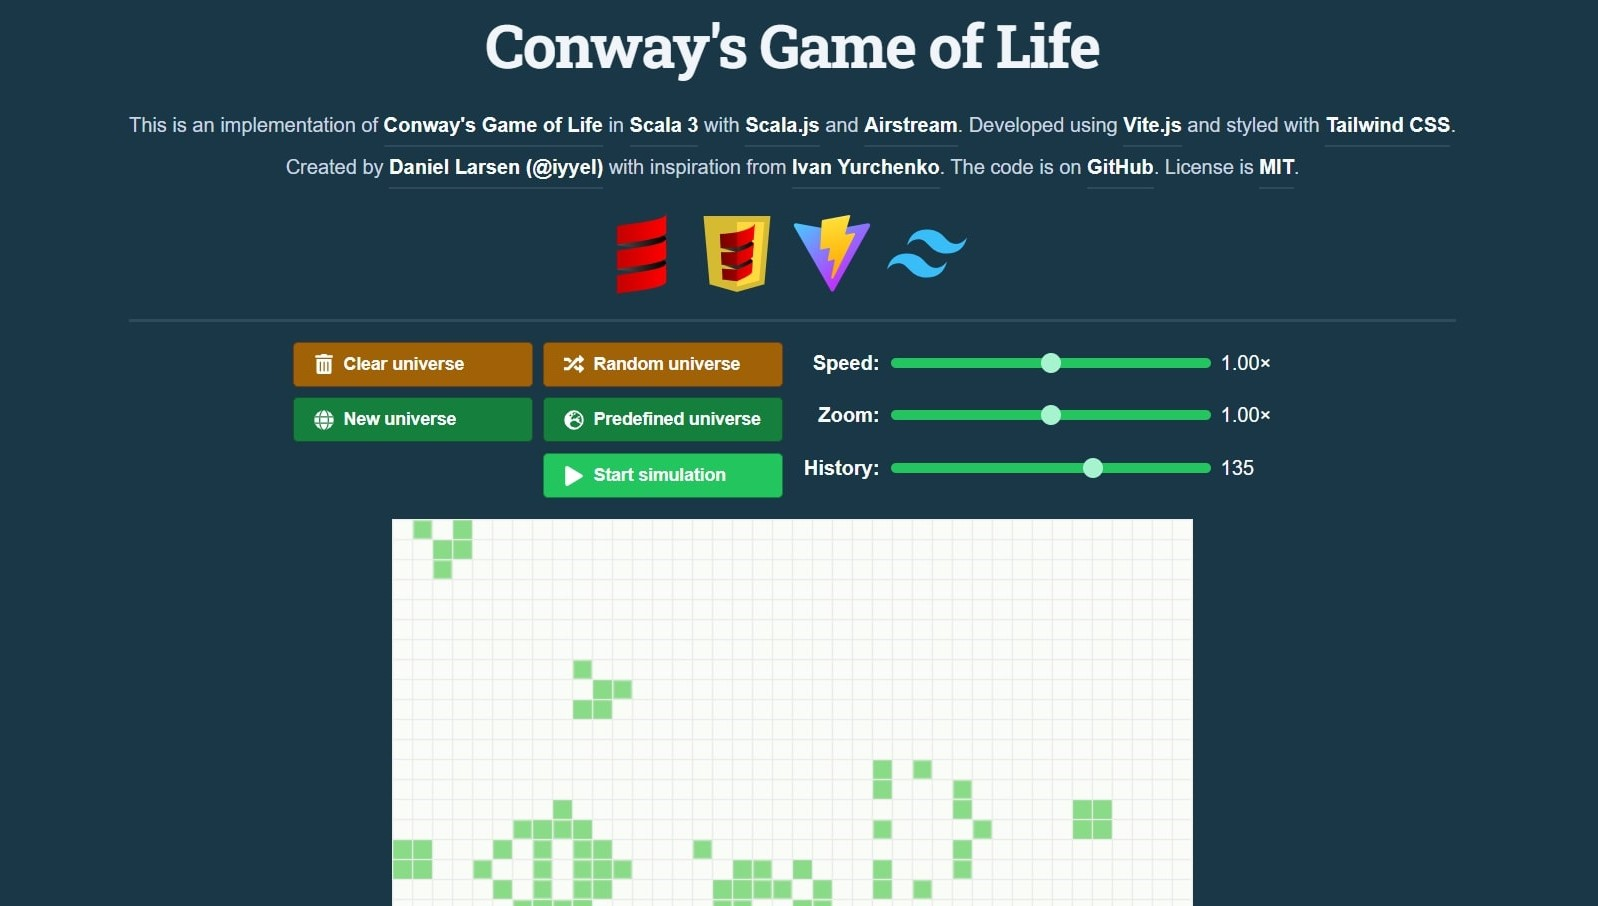
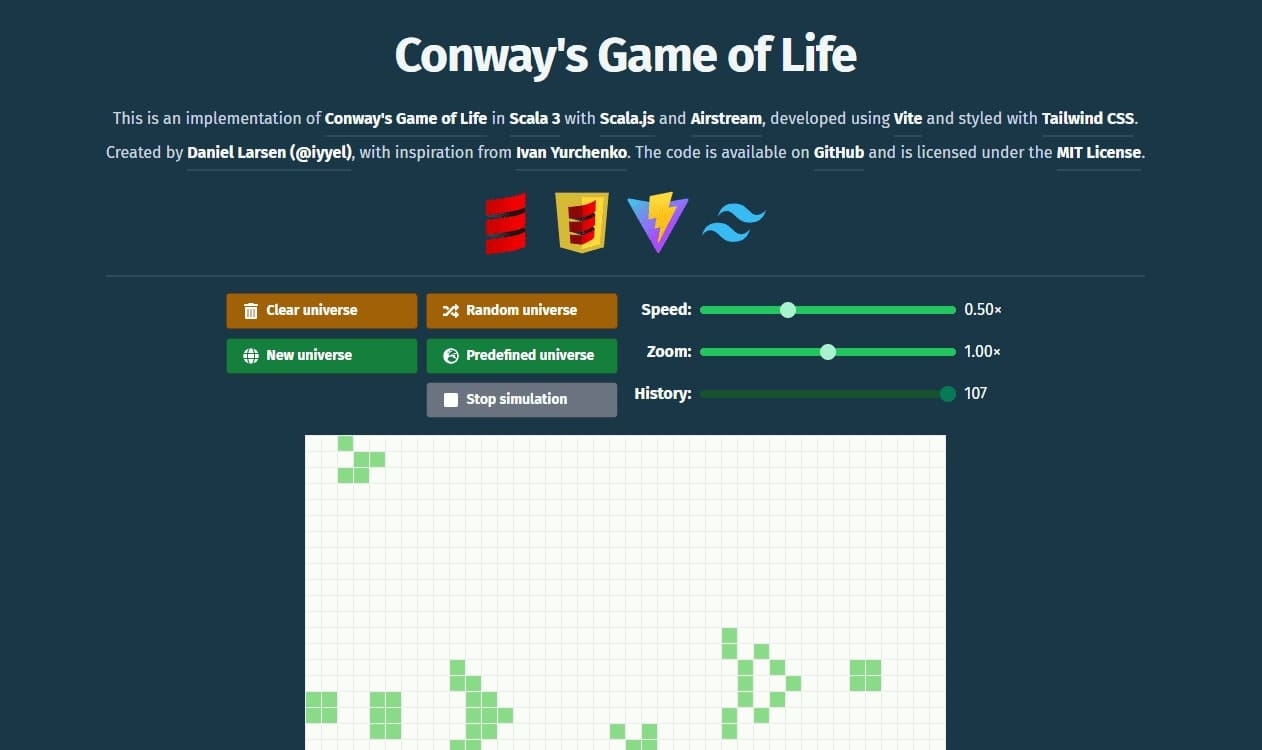
Updated styling and dependencies

diff --git a/index.html b/index.html
@@ -8,7 +8,9 @@
   <link rel="manifest" href="/manifest.webmanifest">
   <link rel="preconnect" href="https://fonts.googleapis.com">
   <link rel="preconnect" href="https://fonts.gstatic.com" crossorigin>
-  <link href="https://fonts.googleapis.com/css2?family=Roboto+Slab:wght@100..900&display=swap" rel="stylesheet">
+  <link
+    href="https://fonts.googleapis.com/css2?family=Fira+Sans:ital,wght@0,400;0,500;0,600;0,700;0,800;0,900;1,400;1,500;1,600;1,700;1,800;1,900&display=swap"
+    rel="stylesheet">
   <meta name="viewport" content="width=device-width, initial-scale=1.0" />
   <title>Conway's Game of Life | @iyyel</title>
 </head>
@@ -30,20 +32,21 @@
         with
         <a class="text-link" href="https://www.scala-js.org">Scala.js</a>
         and
-        <a class="text-link" href="https://github.com/raquo/Airstream/">Airstream</a>.
-        Developed using
-        <a class="text-link" href="https://vitejs.dev">Vite.js</a>
+        <a class="text-link" href="https://github.com/raquo/Airstream/">Airstream</a>,
+        developed using
+        <a class="text-link" href="https://vite.dev/">Vite</a>
         and styled with
-        <a class="text-link" href="https://tailwindcss.com">Tailwind CSS</a>.
+        <a class="text-link" href="https://tailwindcss.com/">Tailwind CSS</a>.
       </p>
 
       <p>
         Created by
-        <a class="text-link" href="https://iyyel.io/">Daniel Larsen (@iyyel)</a>
+        <a class="text-link" href="https://iyyel.io/">Daniel Larsen (@iyyel)</a>,
         with inspiration from
         <a class="text-link" href="https://ivanyu.me/">Ivan Yurchenko</a>.
-        The code is on <a class="text-link" href="https://github.com/iyyel/game-of-life-scala">GitHub</a>.
-        License is <a class="text-link" href="https://github.com/iyyel/game-of-life-scala/blob/main/LICENSE.md">MIT</a>.
+        The code is available on <a class="text-link" href="https://github.com/iyyel/conways-game-of-life">GitHub</a>
+        and is licensed under the <a class="text-link"
+          href="https://github.com/iyyel/conways-game-of-life/blob/main/LICENSE.md">MIT License</a>.
       </p>
 
       <div class="flex flex-wrap items-center justify-center mt-5 mb-5">
@@ -55,8 +58,8 @@
           <img src="/assets/img/scala-js_logo.svg" class="header-icon" alt="Scala.js icon">
         </a>
 
-        <a href="https://vitejs.dev" class="flex-grow-0 ml-3 mt-3 md:mt-0">
-          <img src="/assets/img/vitejs_logo.svg" class="header-icon" alt="Vite.js icon">
+        <a href="https://vite.dev/" class="flex-grow-0 ml-3 mt-3 md:mt-0">
+          <img src="/assets/img/vite_logo.svg" class="header-icon" alt="Vite icon">
         </a>
 
         <a href="https://tailwindcss.com" class="flex-grow-0 ml-3 mt-3 md:mt-0">
@@ -164,21 +167,21 @@
         <h1 class="subheader-text">Information</h1>
       </div>
 
-      <p>You can find more information about the game in
+      <p>You can find more information about the game on
         <a class="text-link" href="https://en.wikipedia.org/wiki/Conway%27s_Game_of_Life">Wikipedia</a>.
       </p>
-      <p>The world of this implementation is toroidal - top and bottom, left and right edges are connected.</p>
-      <p>During the simulation, the history of the universe evolution is recorded,
-        and you can scroll to any state when the simulation is stopped.
-        Also when the simulation is stopped, you can change the state by adding or removing living cells.</p>
-      <p>The cell plane can be cleared or randomly seeded and you can create a new universe
-        (with different size) by the buttons at the top (huge universes can slow down the simulation).
-        You can also choose some interesting predefined universes.</p>
-      <p>Any manual changes to the state of the universe (making a cell dead or alive,
-        clearing, randomly seeding, creating a new universe) causes its history to be cleared.</p>
-      <p>You can control the speed of the simulation and zoom the cell plane
-        by moving the sliders at the top.</p>
-      <p>Unfortunately, the history is unbounded and may consume lots of memory with time.</p>
+      <p>The world in this implementation is toroidal, meaning the top and bottom, as well as the left and right edges,
+        are connected.</p>
+      <p>During the simulation, the history of the universe's evolution is recorded, and you can scroll to any previous
+        state when the simulation is paused. Additionally, while the simulation is paused, you can modify the state by
+        adding or removing living cells.</p>
+      <p>The cell plane can be cleared or randomly seeded, and you can create a new universe (with a different size)
+        using the buttons at the top (note that large universes may slow down the simulation). You can also select from
+        several interesting predefined universes.</p>
+      <p>Any manual changes to the state of the universe (e.g., making a cell dead or alive, clearing the plane,
+        randomly seeding, or creating a new universe) will cause its history to be cleared.</p>
+      <p>You can control the simulation speed and zoom the cell plane by adjusting the sliders at the top.</p>
+      <p>However, the history is unbounded and may consume a large amount of memory over time.</p>
 
       <div class="flex flex-wrap gap-6 mt-4">
         <a href="https://iyyel.io">
@@ -189,11 +192,7 @@
           <img src="/assets/img/github_icon.svg" class="small-icon white-icon" alt="GitHub icon">
         </a>
 
-        <a href="https://www.linkedin.com/in/iyyel">
-          <img src="/assets/img/linkedin_icon.svg" class="small-icon white-icon" alt="LinkedIn icon">
-        </a>
-
-        <a href="mailto:hello@iyyel.io">
+        <a href="mailto:me@iyyel.io">
           <img src="/assets/img/mail_icon.svg" class="small-icon white-icon" alt="E-mail icon">
         </a>
       </div>
@@ -221,7 +220,7 @@
           <div class="mb-4">
             <label class="flex items-center">
               <input id="cb-new-universe-random-seed" class="checkbox-input" type="checkbox" checked>
-              <span class="ml-2 font-semibold text-gray-50">Random</span>
+              <span class="ml-2 font-bold text-gray-50">Random</span>
             </label>
           </div>
         </div>

diff --git a/style.css b/style.css
@@ -16,55 +16,55 @@
 }
 
 .header-text {
-  @apply mb-4 text-4xl font-bold leading-none tracking-tight text-slate-100 md:text-5xl text-center font-heading
+  @apply mb-4 text-4xl font-bold leading-none tracking-tight text-slate-100 md:text-5xl text-center
 }
 
 .subheader-text {
-  @apply mb-4 text-3xl font-bold leading-none tracking-tight text-slate-100 md:text-4xl text-center font-heading
+  @apply mb-4 text-3xl font-bold leading-none tracking-tight text-slate-100 md:text-4xl text-center
 }
 
 .smallheader-text {
-  @apply text-2xl font-bold leading-none tracking-tight text-slate-100 md:text-2xl text-center font-heading
+  @apply text-2xl font-bold leading-none tracking-tight text-slate-100 md:text-2xl text-center
 }
 
 .text-link {
-  @apply inline-block border-b-2 font-semibold text-gray-50 hover:border-gray-50 border-gray-50/10 transition-colors duration-150
+  @apply inline-block border-b-2 font-bold text-gray-50 hover:border-gray-50 border-gray-50/10 transition-colors duration-150
 }
 
 .start-btn {
-  @apply bg-green-500 hover:bg-green-700 text-gray-50 font-semibold py-2 px-4 border border-green-700 rounded flex items-center h-9 text-sm w-48
+  @apply bg-green-500 hover:bg-green-700 text-gray-50 font-bold py-2 px-4 border border-green-700 rounded flex items-center h-9 text-sm w-48
 }
 
 .stop-btn {
-  @apply bg-gray-500 hover:bg-gray-700 text-gray-50 font-semibold py-2 px-4 border border-gray-700 rounded flex items-center h-9 text-sm w-48
+  @apply bg-gray-500 hover:bg-gray-700 text-gray-50 font-bold py-2 px-4 border border-gray-700 rounded flex items-center h-9 text-sm w-48
 }
 
 .new-universe-btn {
-  @apply bg-green-700 hover:bg-green-900 text-gray-50 font-semibold py-2 px-4 border border-green-900 rounded flex items-center h-9 text-sm w-48
+  @apply bg-green-700 hover:bg-green-900 text-gray-50 font-bold py-2 px-4 border border-green-900 rounded flex items-center h-9 text-sm w-48
 }
 
 .predefined-universe-btn {
-  @apply bg-green-700 hover:bg-green-900 text-gray-50 font-semibold py-2 px-4 border border-green-900 rounded flex items-center h-9 text-sm w-48
+  @apply bg-green-700 hover:bg-green-900 text-gray-50 font-bold py-2 px-4 border border-green-900 rounded flex items-center h-9 text-sm w-48
 }
 
 .clear-btn {
-  @apply bg-yellow-700 hover:bg-yellow-900 text-gray-50 font-semibold py-2 px-4 border border-yellow-900 rounded flex items-center h-9 text-sm w-48
+  @apply bg-yellow-700 hover:bg-yellow-900 text-gray-50 font-bold py-2 px-4 border border-yellow-900 rounded flex items-center h-9 text-sm w-48
 }
 
 .random-universe-btn {
-  @apply bg-yellow-700 hover:bg-yellow-900 text-gray-50 font-semibold py-2 px-4 border border-yellow-900 rounded flex items-center h-9 text-sm w-48
+  @apply bg-yellow-700 hover:bg-yellow-900 text-gray-50 font-bold py-2 px-4 border border-yellow-900 rounded flex items-center h-9 text-sm w-48
 }
 
 .create-new-universe-btn {
-  @apply bg-green-500 hover:bg-green-700 text-gray-50 font-semibold py-2 px-4 border border-green-700 rounded flex items-center h-9 text-sm w-20
+  @apply bg-green-500 hover:bg-green-700 text-gray-50 font-bold py-2 px-4 border border-green-700 rounded flex items-center h-9 text-sm w-20
 }
 
 .cancel-btn {
-  @apply bg-gray-500 hover:bg-gray-700 text-gray-50 font-semibold py-2 px-4 border border-gray-700 rounded flex items-center h-9 text-sm w-20
+  @apply bg-gray-500 hover:bg-gray-700 text-gray-50 font-bold py-2 px-4 border border-gray-700 rounded flex items-center h-9 text-sm w-20
 }
 
 .slider-label {
-  @apply mb-2 inline-block font-semibold text-gray-50
+  @apply mb-2 inline-block font-bold text-gray-50
 }
 
 .slider-input {
@@ -175,7 +175,7 @@
 }
 
 .card-header {
-  @apply text-xl font-semibold mb-2 text-gray-50 font-heading
+  @apply text-xl font-bold mb-2 text-gray-50
 }
 
 .card-content {

diff --git a/tailwind.config.js b/tailwind.config.js
@@ -5,8 +5,7 @@ export default {
   ],
   theme: {
     fontFamily: {
-      'sans': ['Noto Sans', 'sans-serif'],
-      'heading': ['Roboto Slab', 'sans-serif']
+      'sans': ['Fira Sans'],
     },
   },
   plugins: [],

diff --git a/README.md b/README.md
@@ -9,7 +9,7 @@
 <br />
 <div align="center">
   <a href="https://github.com/iyyel/conways-game-of-life">
-    <img src="images/game-of-life-logo.png" width="auto" height="300" alt="Game of Life Logo">
+    <img src="images/conways.jpg" width="auto" height="300" alt="Game of Life Logo">
   </a>
 
   <p align="center">
@@ -22,6 +22,7 @@
 
 
 ## Table of Contents
+- [Table of Contents](#table-of-contents)
 - [Introduction](#introduction)
 - [Built With](#built-with)
 - [Getting Started](#getting-started)
@@ -33,15 +34,14 @@
 
 
 ## Introduction
-[![Game of Life][product-screenshot]](https://github.com/iyyel/conways-game-of-life)
 
-The [**Game of Life**](https://en.wikipedia.org/wiki/Conway%27s_Game_of_Life), created by [John Conway](https://en.wikipedia.org/wiki/John_Horton_Conway), is a well-known cellular automaton. It features a grid of cells where each cell can either be alive or dead. The evolution of each cell's state over time is determined by straightforward rules:
+The [**Game of Life**](https://en.wikipedia.org/wiki/Conway%27s_Game_of_Life), created by [**John Conway**](https://en.wikipedia.org/wiki/John_Horton_Conway), is a well-known cellular automaton. It features a grid of cells where each cell can either be alive or dead. The evolution of each cell's state over time is determined by straightforward rules:
 
 A live cell with two or three live neighbors continues to live. A dead cell with exactly three live neighbors becomes alive. All other live cells die, and all other dead cells stay dead.
 
 Despite its simplicity, the game can produce intricate and captivating patterns and behaviors, including a fully functional computer or even another instance of the **Game of Life**.
 
-Here is a Scala 3 implementation of Conway’s **Game of Life**. This project was developed mainly to get familiar with Scala 3, with the goal of quickly producing a polished and releasable product. You can access the completed project [here](https://life.iyyel.io/).
+Here is a Scala 3 implementation of **Conway’s Game of Life**. This project was developed mainly to get familiar with Scala 3, with the goal of quickly producing a polished and releasable product. You can access the completed project [here](https://life.iyyel.io/).
 
 **DISCLAIMER:** The user-interface may not work equally well on all devices and screen sizes. Feel free to submit a PR if you have a fix :)
 
@@ -53,7 +53,7 @@ This implementation of the **Game of Life** is built using the following technol
 * [Scala 3](https://www.scala-lang.org/)
 * [Scala.js](https://www.scala-js.org/)
 * [Airstream](https://github.com/raquo/Airstream/)
-* [Vite.js](https://vitejs.dev/)
+* [Vite](https://vite.dev/)
 * [Tailwind CSS](https://tailwindcss.com/)
 
 
@@ -81,7 +81,7 @@ Distributed under the MIT License. See [LICENSE.md](LICENSE.md) for more informa
 
 
 ## Contact
-Daniel Larsen (iyyel) - [iyyel.io](https://iyyel.io) - [hello@iyyel.io](mailto:hello@iyyel.io)
+Daniel Larsen (iyyel) - [iyyel.io](https://iyyel.io) - [me@iyyel.io](mailto:me@iyyel.io)
 
 
 

diff --git a/LICENSE.md b/LICENSE.md
@@ -1,4 +1,4 @@
-Copyright (c) 2012-2024 Daniel "iyyel" Larsen
+Copyright (c) 2024 Daniel "iyyel" Larsen
 
 Permission is hereby granted, free of charge, to any person obtaining
 a copy of this software and associated documentation files (the
